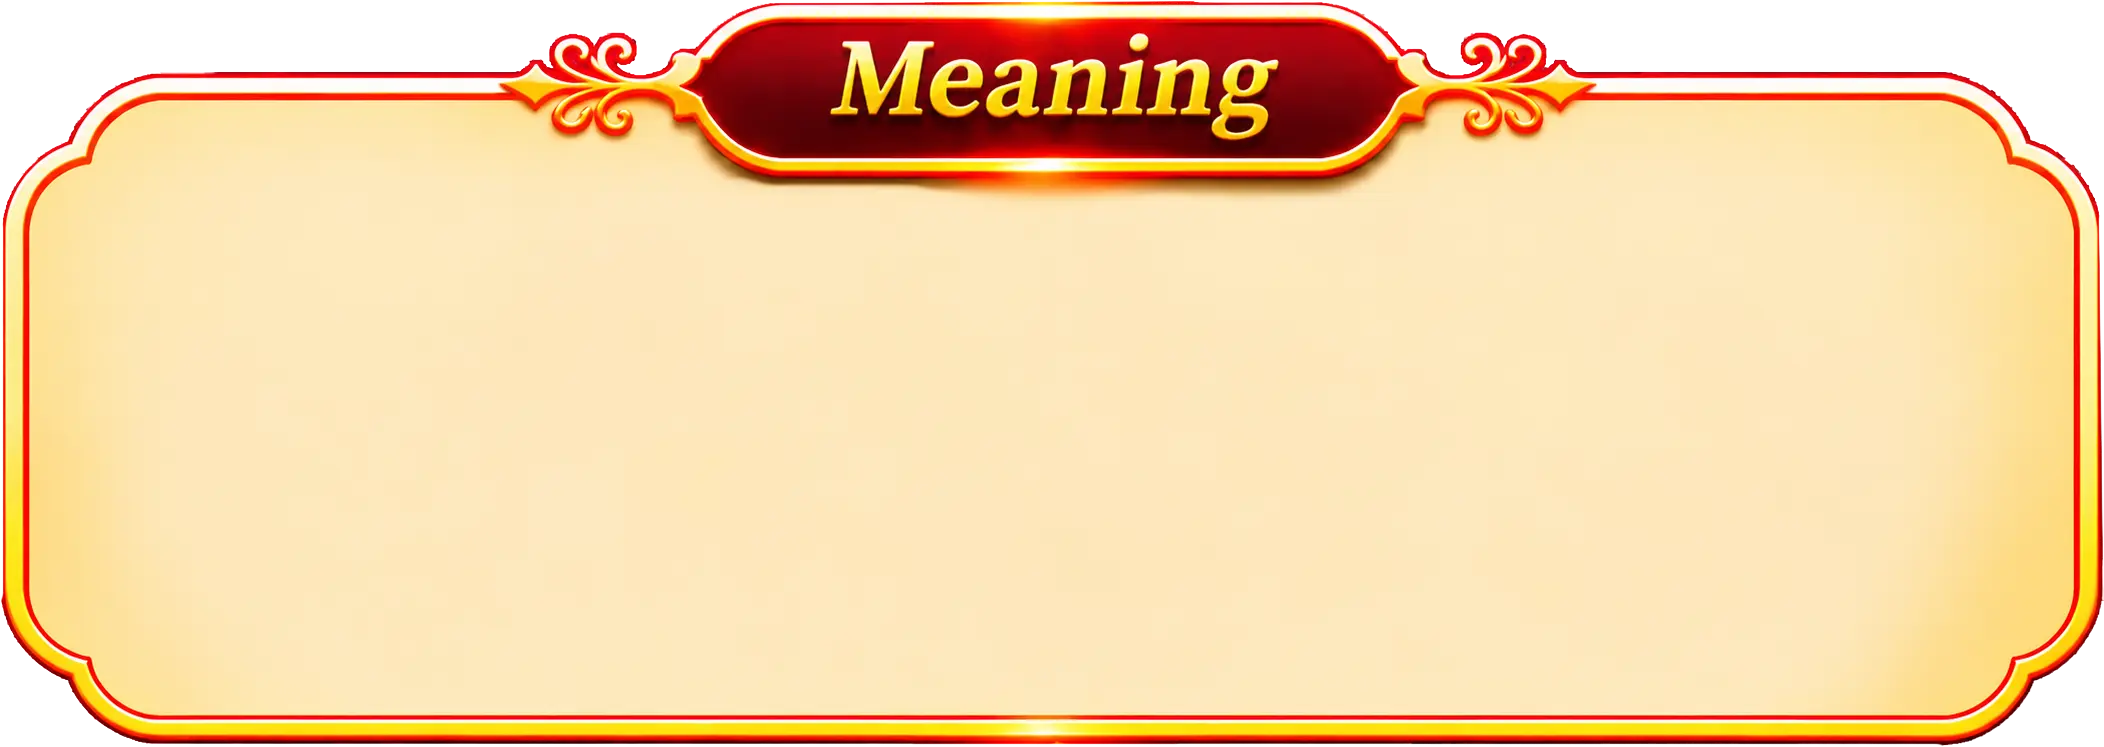
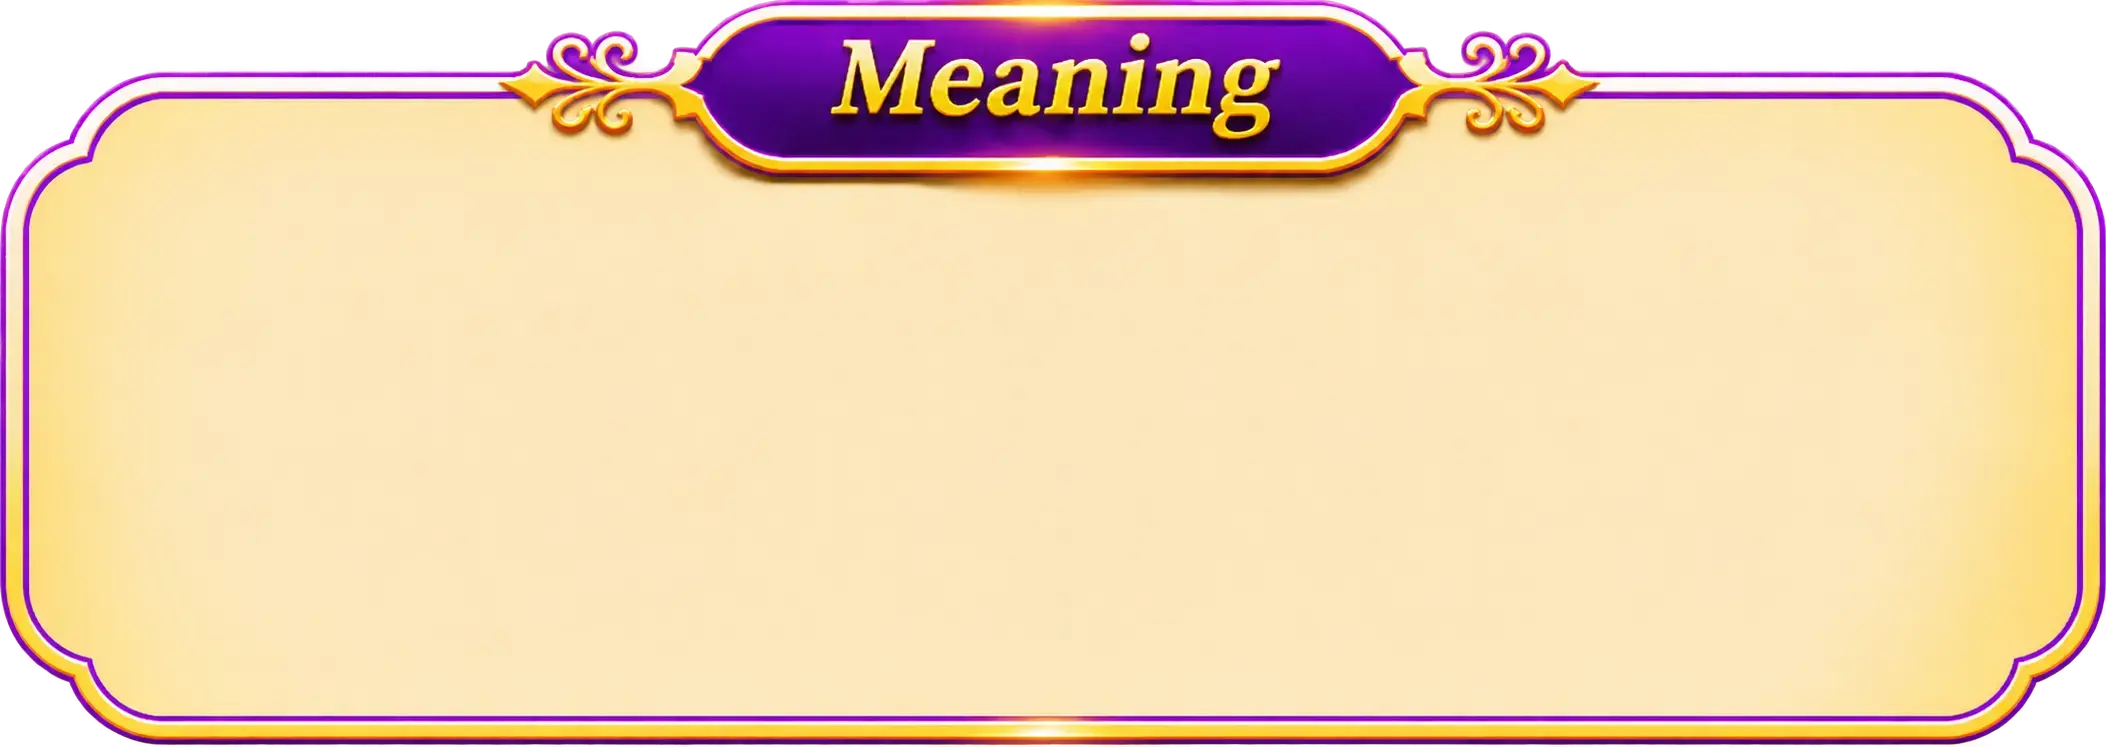
Replace Match It Blast It meaning panel and refresh caches

Changed region(s): [[0.0, 0.0, 1.0, 1.0]]

diff --git a/assets/match-it-blast-it-scripts/match-it-blast-it.html b/assets/match-it-blast-it-scripts/match-it-blast-it.html
@@ -1,3 +1,3 @@
 <!doctype html>
-<html lang="en"><head><meta charset="utf-8"><meta name="viewport" content="width=device-width,initial-scale=1,viewport-fit=cover"><meta name="theme-color" content="#21063b"><title>Match It, Blast It</title><link rel="stylesheet" href="match-it-blast-it.css?v=29"><script defer src="match-it-blast-it-config.js?v=29"></script><script defer src="match-it-blast-it-logic.js?v=29"></script><script defer src="match-it-blast-it-audio.js?v=29"></script><script defer src="match-it-blast-it-video.js?v=29"></script><script defer src="match-it-blast-it.js?v=29"></script></head>
+<html lang="en"><head><meta charset="utf-8"><meta name="viewport" content="width=device-width,initial-scale=1,viewport-fit=cover"><meta name="theme-color" content="#21063b"><title>Match It, Blast It</title><link rel="stylesheet" href="match-it-blast-it.css?v=30"><script defer src="match-it-blast-it-config.js?v=30"></script><script defer src="match-it-blast-it-logic.js?v=30"></script><script defer src="match-it-blast-it-audio.js?v=30"></script><script defer src="match-it-blast-it-video.js?v=30"></script><script defer src="match-it-blast-it.js?v=30"></script></head>
 <body><main id="game" aria-label="Match It, Blast It"><div id="scene"></div><canvas id="effects" aria-hidden="true"></canvas><button id="game-exit" type="button" aria-label="Close game" title="Close game" disabled><span aria-hidden="true">&#215;</span></button></main><div id="rotate"><span aria-hidden="true">&#8635;</span>Turn your phone to portrait to play.</div><div id="announcement" class="sr-only" aria-live="polite"></div></body></html>

diff --git a/assets/match-it-blast-it-scripts/sw.js b/assets/match-it-blast-it-scripts/sw.js
@@ -1,5 +1,5 @@
-const CACHE='match-it-blast-it-v29';
-const SHELL=['match-it-blast-it-video.js?v=29','match-it-blast-it.html','match-it-blast-it.css?v=29','match-it-blast-it-config.js?v=29','match-it-blast-it.js?v=29','match-it-blast-it-logic.js?v=29','match-it-blast-it-audio.js?v=29'];
+const CACHE='match-it-blast-it-v30';
+const SHELL=['match-it-blast-it-video.js?v=30','match-it-blast-it.html','match-it-blast-it.css?v=30','match-it-blast-it-config.js?v=30','match-it-blast-it.js?v=30','match-it-blast-it-logic.js?v=30','match-it-blast-it-audio.js?v=30'];
 self.addEventListener('install',e=>e.waitUntil(caches.open(CACHE).then(c=>c.addAll(SHELL)).then(()=>self.skipWaiting())));
 self.addEventListener('activate',e=>e.waitUntil(caches.keys().then(keys=>Promise.all(keys.filter(k=>k.startsWith('match-it-blast-it-')&&k!==CACHE).map(k=>caches.delete(k)))).then(()=>self.clients.claim())));
 self.addEventListener('fetch',e=>{const u=new URL(e.request.url);if(e.request.destination==='video'||/\.(webm|mp4)$/i.test(u.pathname))return;if(e.request.method!=='GET'||u.origin!==location.origin||!(/\/match-it-blast-it-(scripts|assets)\//.test(u.pathname)))return;e.respondWith(caches.open(CACHE).then(async c=>{if(e.request.mode==='navigate'){try{const r=await fetch(e.request,{cache:'no-cache'});if(r.ok)await c.put(e.request,r.clone());return r;}catch{const r=await c.match(e.request,{ignoreSearch:true});if(r)return r;throw Error('Offline page unavailable');}}const hit=await c.match(e.request);if(hit)return hit;const r=await fetch(e.request);if(r.ok)await c.put(e.request,r.clone());return r;}));});

diff --git a/index.html b/index.html
@@ -482,7 +482,7 @@
             <img src="assets/ab-express-assets/page-1/page-1-bg.webp" alt="AB Express" class="poster-card-image" loading="lazy">
           </div>
         </a>
-        <a class="game-poster poster-match-blast playable-poster" href="assets/match-it-blast-it-scripts/match-it-blast-it.html?v=29&amp;from=games" aria-label="Play Match It, Blast It">
+        <a class="game-poster poster-match-blast playable-poster" href="assets/match-it-blast-it-scripts/match-it-blast-it.html?v=30&amp;from=games" aria-label="Play Match It, Blast It">
           <div class="poster-card-wrap"><img src="assets/match-it-blast-it-assets/page-1/page-1-bg.webp?v=1" alt="Match It, Blast It" class="poster-card-image" loading="lazy"></div>
         </a>
       </section>
@@ -576,7 +576,7 @@
             <img src="assets/ab-express-assets/page-1/page-1-bg.webp" alt="AB Express" class="poster-card-image" loading="lazy">
           </div>
         </a>
-        <a class="game-poster poster-match-blast playable-poster" href="assets/match-it-blast-it-scripts/match-it-blast-it.html?v=29&amp;from=rc-games" aria-label="Play Match It, Blast It">
+        <a class="game-poster poster-match-blast playable-poster" href="assets/match-it-blast-it-scripts/match-it-blast-it.html?v=30&amp;from=rc-games" aria-label="Play Match It, Blast It">
           <div class="poster-card-wrap"><img src="assets/match-it-blast-it-assets/page-1/page-1-bg.webp?v=1" alt="Match It, Blast It" class="poster-card-image" loading="lazy"></div>
         </a>
       </section>

diff --git a/sw.js b/sw.js
@@ -1,5 +1,5 @@
 const CACHE_PREFIX = 'aurobindo-shell-';
-const CACHE = `${CACHE_PREFIX}v481`;
+const CACHE = `${CACHE_PREFIX}v482`;
 const ASSETS = ['./', './index.html', './styles.css?v=30', './app.js?v=18', './tile-match.js?v=23', './symptom-match.html', './symptom-match.css?v=18', './symptom-match.js?v=20', './chromatogram.html', './chromatogram.css?v=23', './chromatogram.js?v=22', './assets/toggle%20button.png', './assets/4%20arrow%20toggle%20outline.png', './assets/hpcl-logo-new.png', './assets/game-1-card.png', './assets/game-2-card.png', './assets/game-3-card.png', './assets/game-4-card.png', './logo.png', './icon.svg', './icons/icon-192.png', './icons/icon-512.png', './manifest.webmanifest?v=2'];
 ASSETS.push('./cleaning-solution.html', './cleaning-solution.css?v=7', './cleaning-solution.js?v=6');
 ASSETS.splice(ASSETS.indexOf('./styles.css?v=30'), 1, './styles.css?v=54');

diff --git a/assets/match-it-blast-it-scripts/match-it-blast-it-config.js b/assets/match-it-blast-it-scripts/match-it-blast-it-config.js
@@ -1,5 +1,5 @@
 window.BlastConfig = {
-  version: '29', roundSeconds: 60,
+  version: '30', roundSeconds: 60,
   theme: 'diwali',
   audio: {menu:'audio/menu-bgm.mp3',game:'audio/game-bgm.mp3',sparkle:'audio/sparkle.mp3',tick:'audio/timer-tick.wav',blast:'audio/blast-2.mp3',wrong:'audio/wrong-answer.mp3',wrongVolume:1.7,struggle:'audio/fuse-sputter.wav',struggleVolume:.7,blastVolume:1.6,blastDuck:.2,blastDuckSeconds:.45,menuVolume:.25,gameVolume:.25,sparkleVolume:.42,tickVolume:.32,crossfade:1.1},
   timing: { transition: 420, entrance: 1250, placement: 300, assemble: 850, sparklerApproach: 700, contact: 250, ignition: 900, burstGap: 600, correctHold: 1800, failSettle: 450, failZoom: 700, failStruggle: 1500, failSmoke: 1500, failReturn: 500, feedback: 1400, timeoutHold: 750, diyaLead: 500, diyaLight: 1300, diyaHold: 1400, resetHold: 1700, goldHold: 2200 },

diff --git a/assets/match-it-blast-it-scripts/match-it-blast-it-progress.md b/assets/match-it-blast-it-scripts/match-it-blast-it-progress.md
@@ -239,3 +239,9 @@ Copied all 31 supplied assets from Downloads into `assets/match-it-blast-it-asse
 - Close now stops active game work/media and navigates to that gallery. Only the two known gallery routes are allowed; direct links default to Games. Internal Home/replay navigation remains unchanged. Supersedes earlier Close-to-game-Home behavior.
 - Scoped cache/shell/entry updated to v29; root shell cache to v481. Updated gallery return regression checks. Not pushed.
 - Edge and WebKit passed both gallery banner entry and Close return from gameplay at 390x844. Syntax/diff checks passed. Physical-device verification remains pending.
+
+## 2026-11-06 - Supplied Meaning panel replacement
+
+- Replaced page-3/meaning-panel.webp with the supplied purple/gold artwork; SHA-256 matches the source. Preserved placement and gameplay.
+- Scoped asset/shell/cache URLs updated to v30, both gallery entries updated, root shell cache bumped to v482. Old scoped caches are removed on activation.
+- Edge and WebKit loaded the new v30 panel at 320x568; reviewed screenshot. Diff checks passed. User authorized push; physical-device review remains pending.
